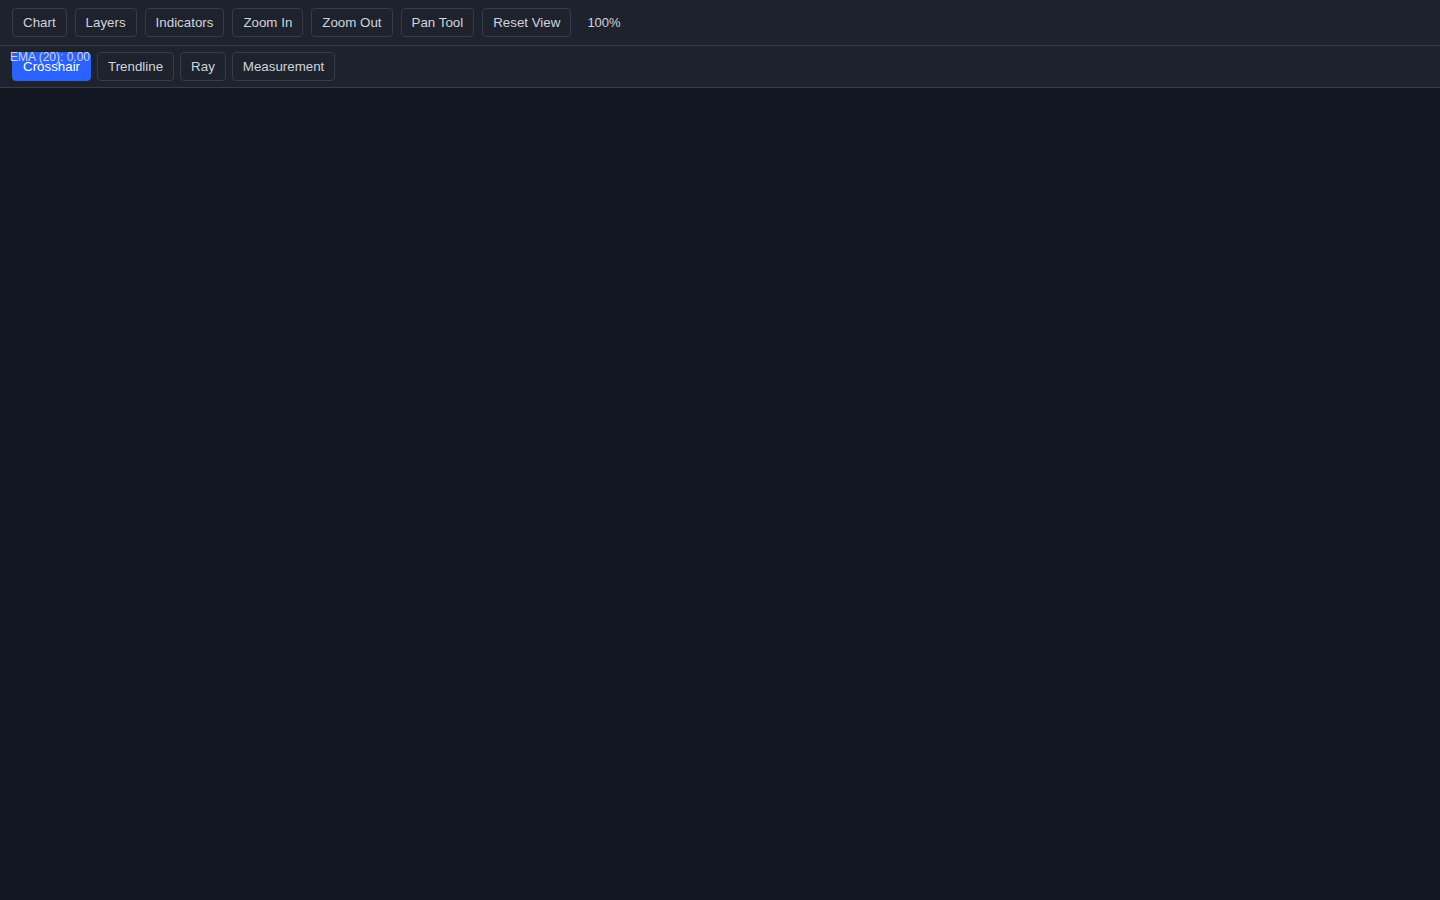
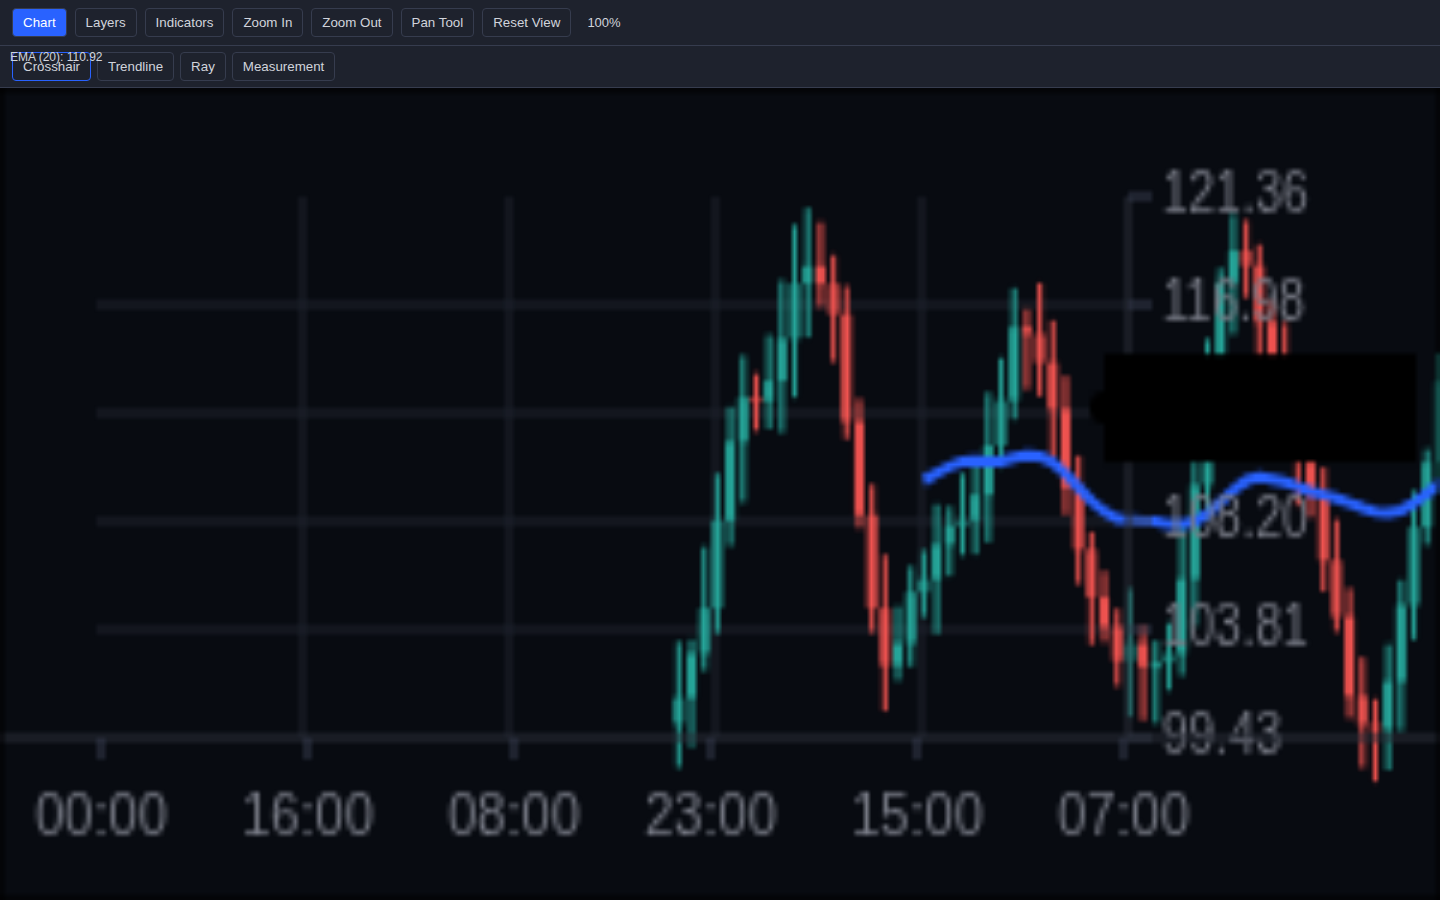
chore: sync baseline before task merge

diff --git a/docs/DEPLOYMENT.md b/docs/DEPLOYMENT.md
@@ -4,10 +4,10 @@
 - **Public Preview URL:** [https://river-alternatives-isolated-parker.trycloudflare.com/preview/prod-smarttrading-v2-9a6089/](https://river-alternatives-isolated-parker.trycloudflare.com/preview/prod-smarttrading-v2-9a6089/)
 - **Local Gateway Path:** [/preview/prod-smarttrading-v2-9a6089/](/preview/prod-smarttrading-v2-9a6089/)
 - **Internal Port:** `8100`
-- **Process PID:** `974923`
+- **Process PID:** `975797`
 - **Runtime Engine:** `nodejs_server`
 - **Health Status:** `HEALTHY (HTTP 200)`
-- **Deployed Timestamp:** `2026-09-20T15:22:20.468570+00:00`
+- **Deployed Timestamp:** `2026-09-20T15:25:00.252425+00:00`
 
 ## 📋 Execution Command
 ```bash
@@ -21,9 +21,9 @@ curl -I http://127.0.0.1:8100/
 
 ## 🔍 Headless Browser Verification
 - **DOM Title:** `SmartTrading-V2`
-- **Has Canvas:** `False`
+- **Has Canvas:** `True`
 - **Interactive Elements:** `True`
-- **Console Errors:** `0`
+- **Console Errors:** `1`
 
 ## 📜 Live Deployment Logs
 Logs are stored at `/root/nexus-agent-graph/workspaces/prod-smarttrading-v2-9a6089/logs/deploy.log`.
